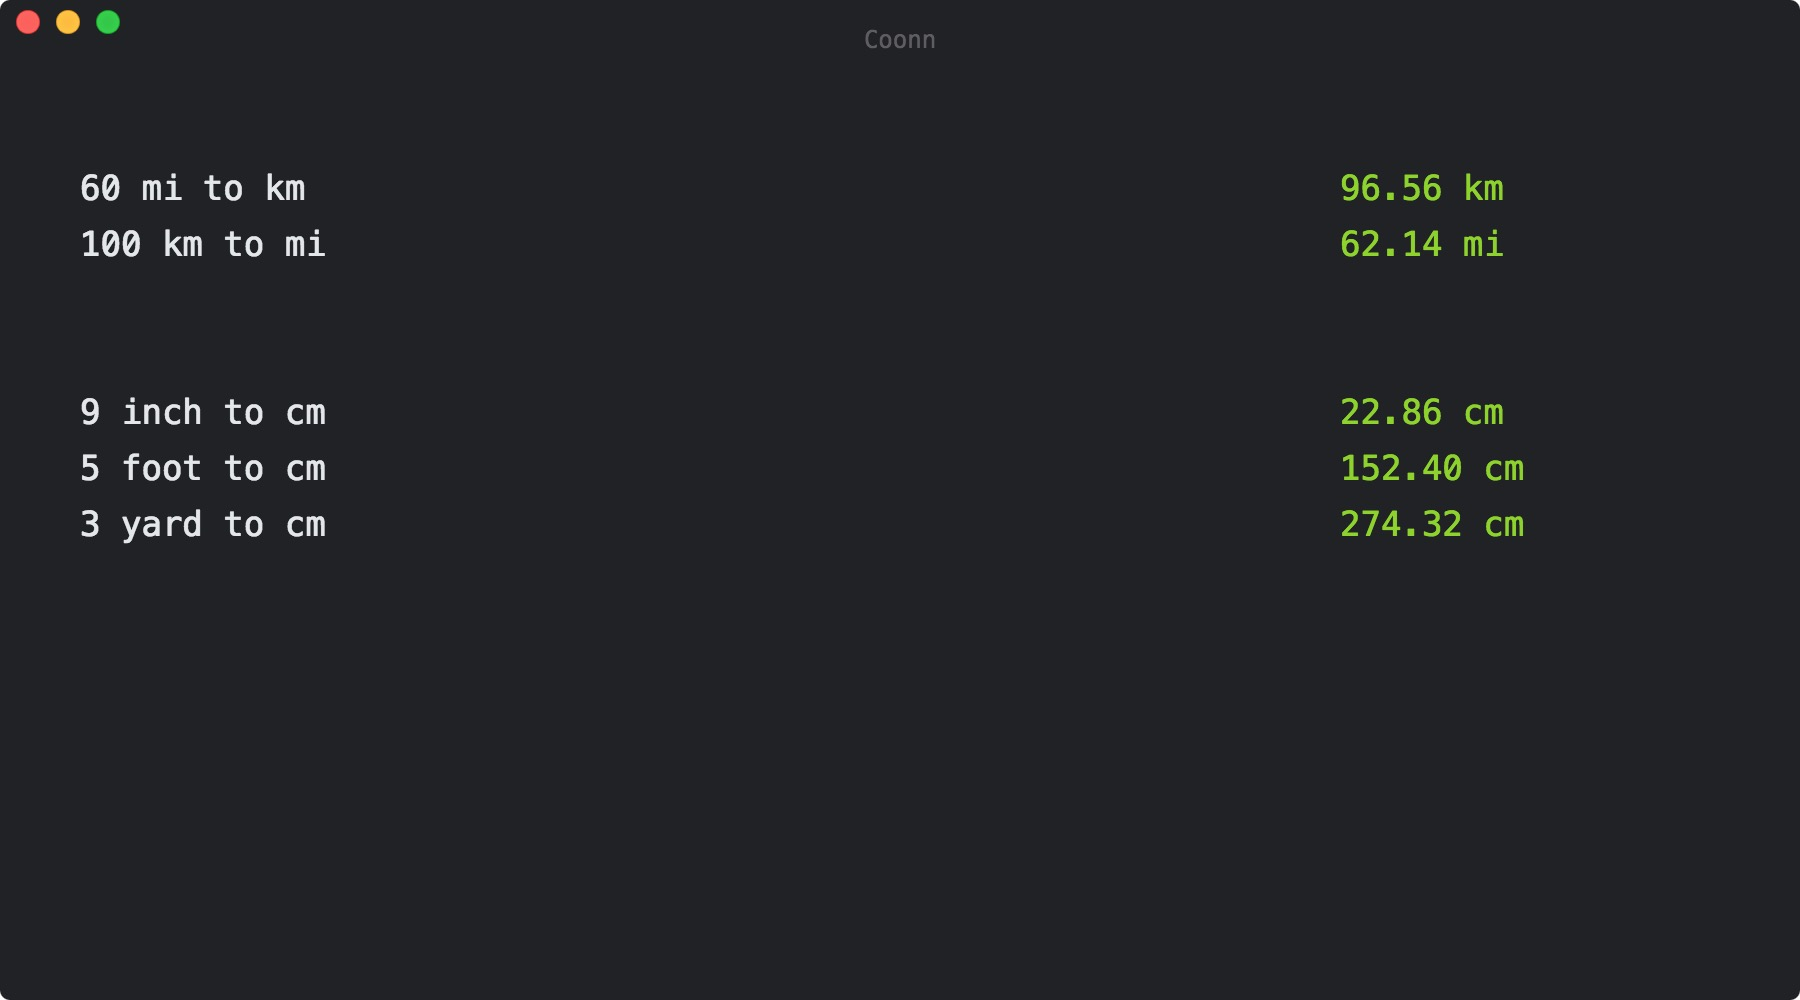
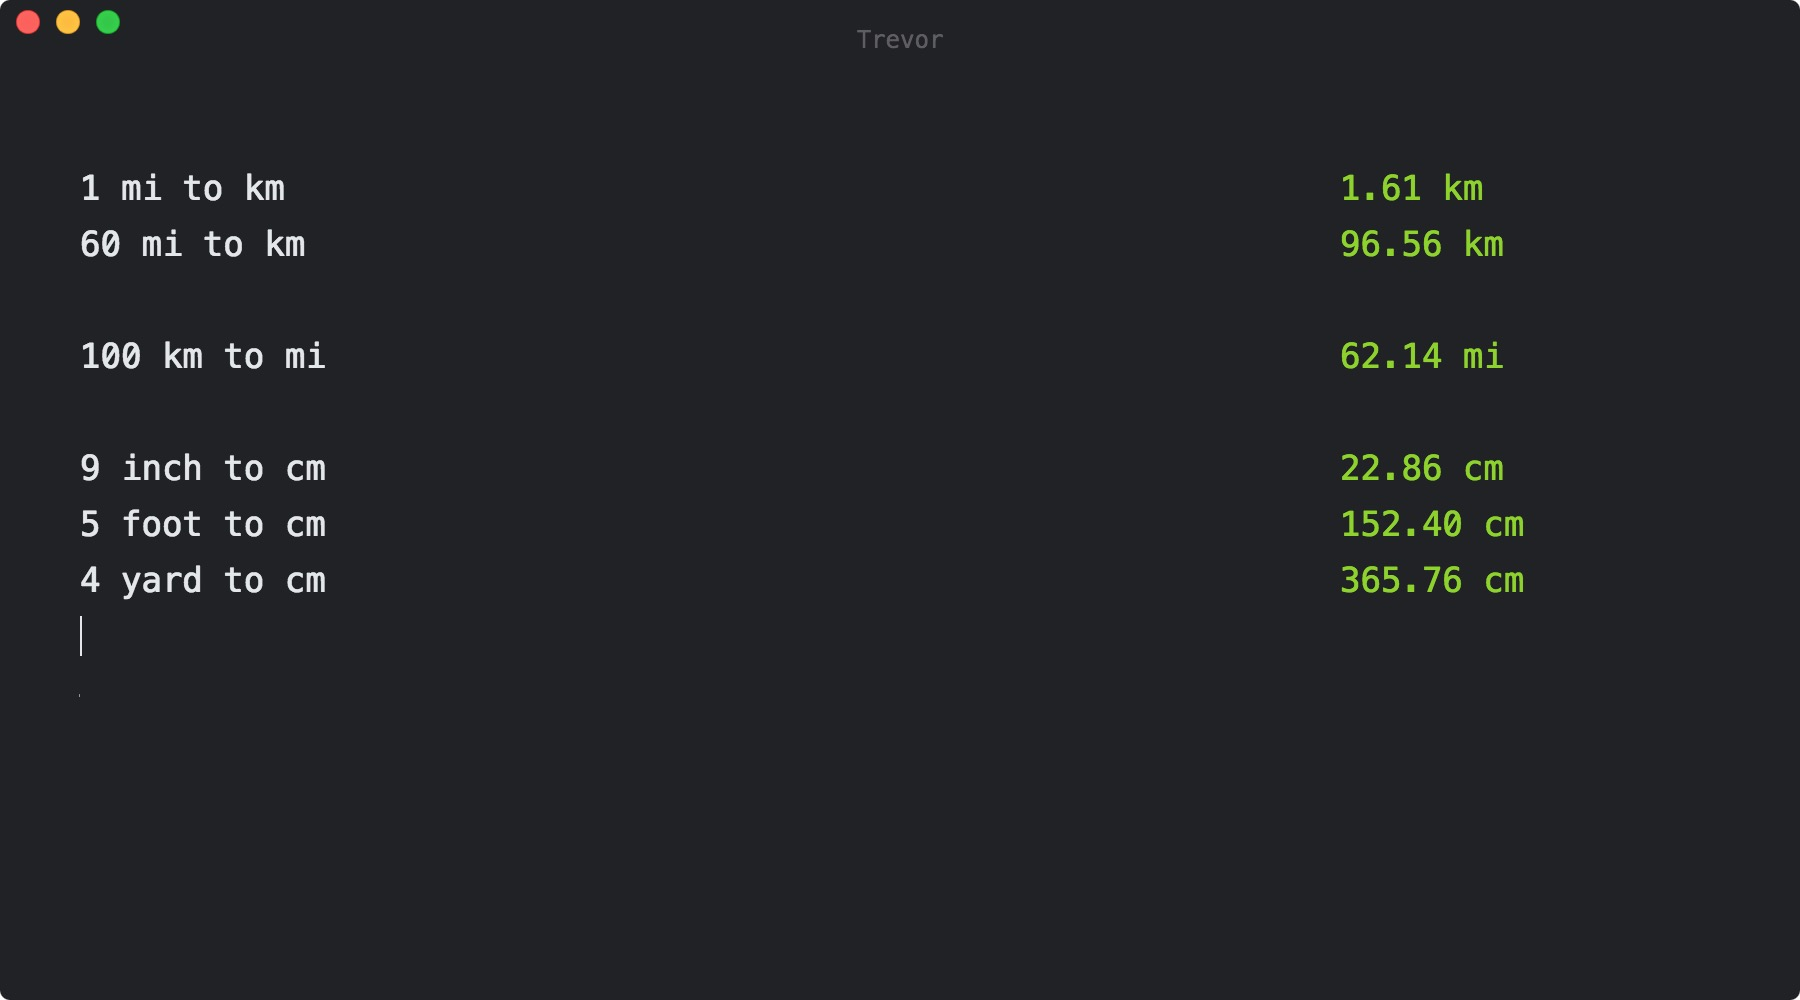
Name was changed.

diff --git a/dev/index.jsx b/dev/index.jsx
@@ -1,16 +1,16 @@
 import React from 'react'
 import ReactDOM from 'react-dom'
-import coonnE from 'coonn-engine'
+import trevorE from 'trevor-engine'
 
 class App extends React.Component {
   constructor () {
     super()
-    const input = '60 mi to km'
+    const input = '1 mi to km'
     const output = this.convert(input)
     this.state = { input: input, output: output }
   }
   convert (lines) {
-    return lines.split('\n').map(line => coonnE(line) + '\n')
+    return lines.split('\n').map(line => trevorE(line) + '\n')
   }
   handleInput (event) {
     const input = event.target.value
@@ -20,7 +20,7 @@ class App extends React.Component {
   render () {
     return (
       <div>
-        <div id='drag'>Coonn</div>
+        <div id='drag'>Trevor</div>
         <textarea id='input' onChange={this.handleInput.bind(this)} value={this.state.input} autoFocus />
         <pre id='output'>{this.state.output}</pre>
       </div>

diff --git a/electron.js b/electron.js
@@ -15,9 +15,7 @@ function createWindow () {
 app.on('ready', createWindow)
 
 app.on('window-all-closed', () => {
-  if (process.platform !== 'darwin') {
-    app.quit()
-  }
+  app.quit()
 })
 
 app.on('activate', () => {

diff --git a/prod/index.html b/prod/index.html
@@ -2,7 +2,7 @@
 <html lang="en">
 <head>
   <meta charset="UTF-8">
-  <title>Coonn</title>
+  <title>Trevor</title>
   <style>
     * {
       box-sizing: border-box;

diff --git a/readme.md b/readme.md
@@ -1,15 +1,15 @@
-# coonn
-Electron-based unit converter app inspired by [Numi](http://numi.io/), powered by [React](https://github.com/facebook/react/).
+# trevor
+[Electron](https://github.com/electron/electron) based unit converter app inspired by [Numi](http://numi.io/), powered by [React](https://github.com/facebook/react/).
 
 ![](screenshot.jpg)
 
 ## Build
 ```sh
 # 1. Download the repo.
-git clone https://github.com/ozgrozer/coonn.git
+git clone https://github.com/ozgrozer/trevor.git
 
 # 2. Change directory.
-cd coonn
+cd trevor
 
 # 3. Install dependencies (with npm or yarn).
 npm install
@@ -22,7 +22,7 @@ npm run build
 ```
 
 ## Contribution
-Feel free to contribute. Open a new [issue](https://github.com/ozgrozer/coonn/issues), or make a [pull request](https://github.com/ozgrozer/coonn/pulls).
+Feel free to contribute. Open a new [issue](https://github.com/ozgrozer/trevor/issues), or make a [pull request](https://github.com/ozgrozer/trevor/pulls).
 
 ## License
 [IHL](https://github.com/ozgrozer/ihl)
